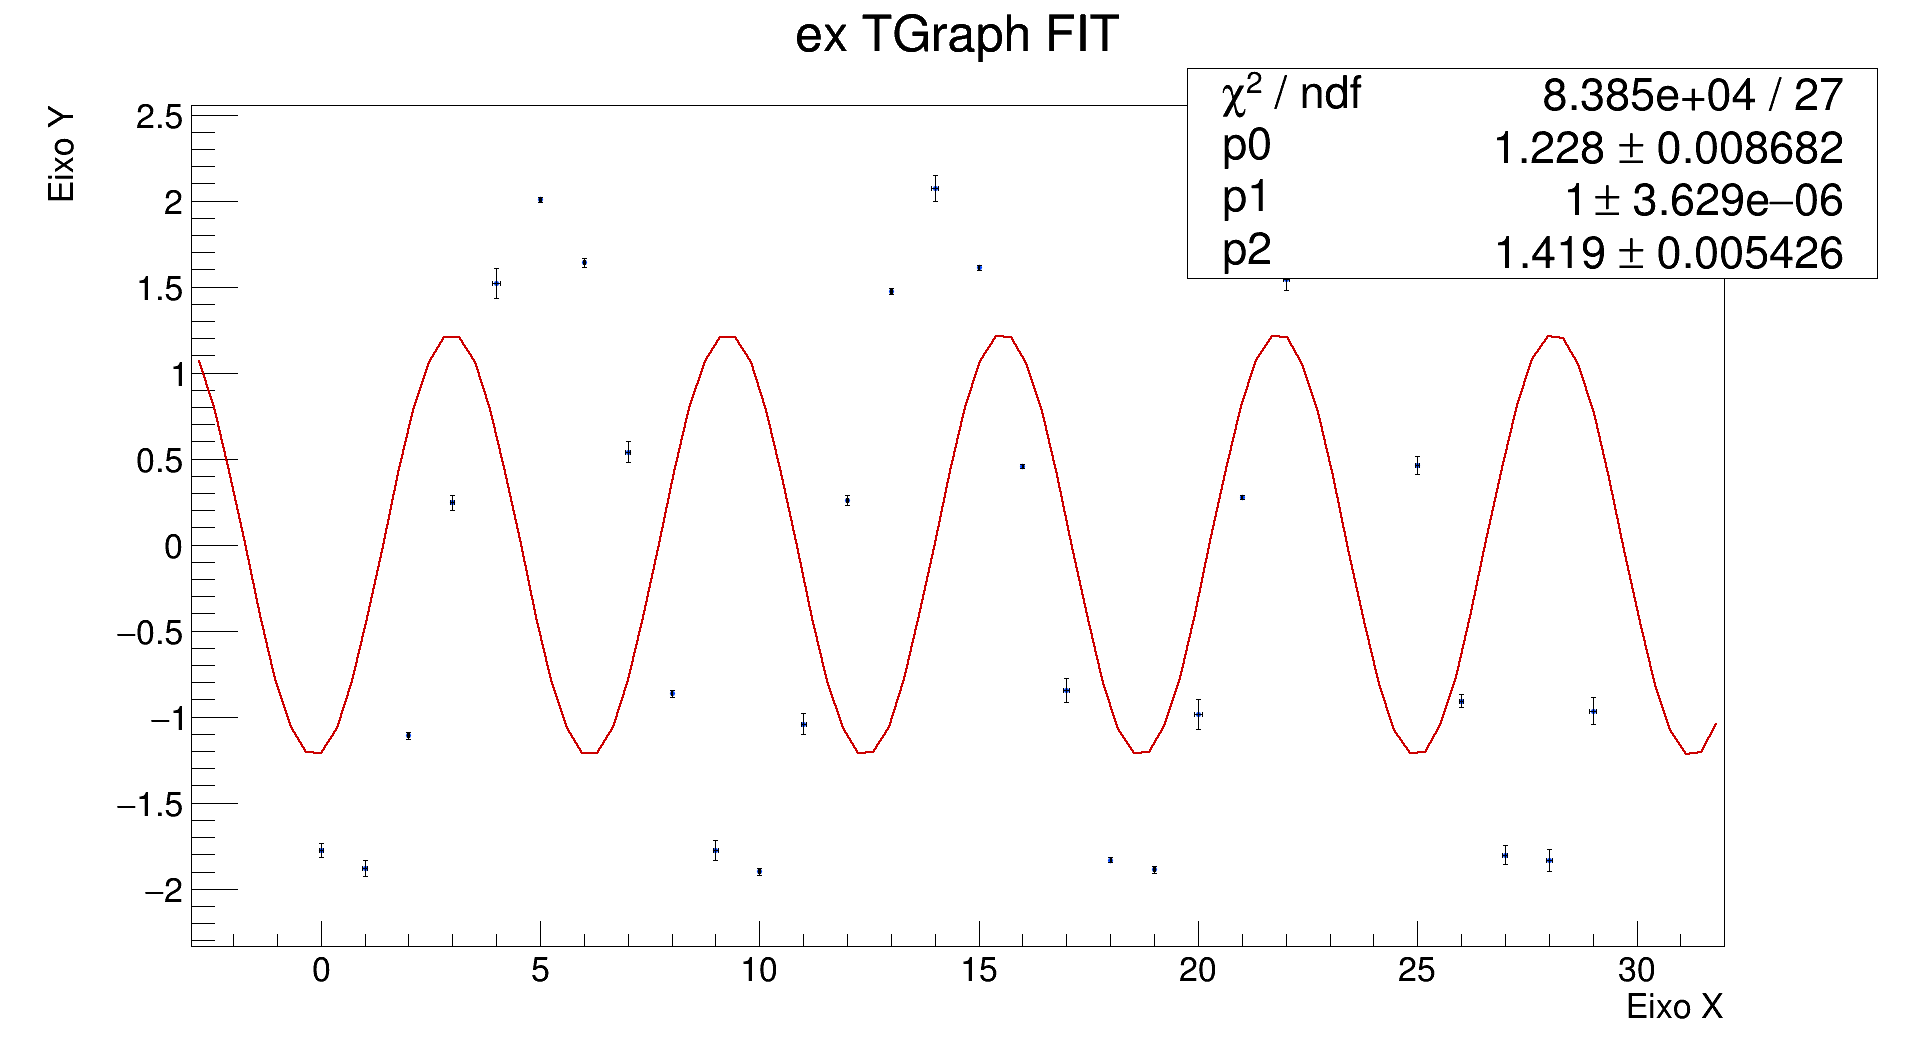
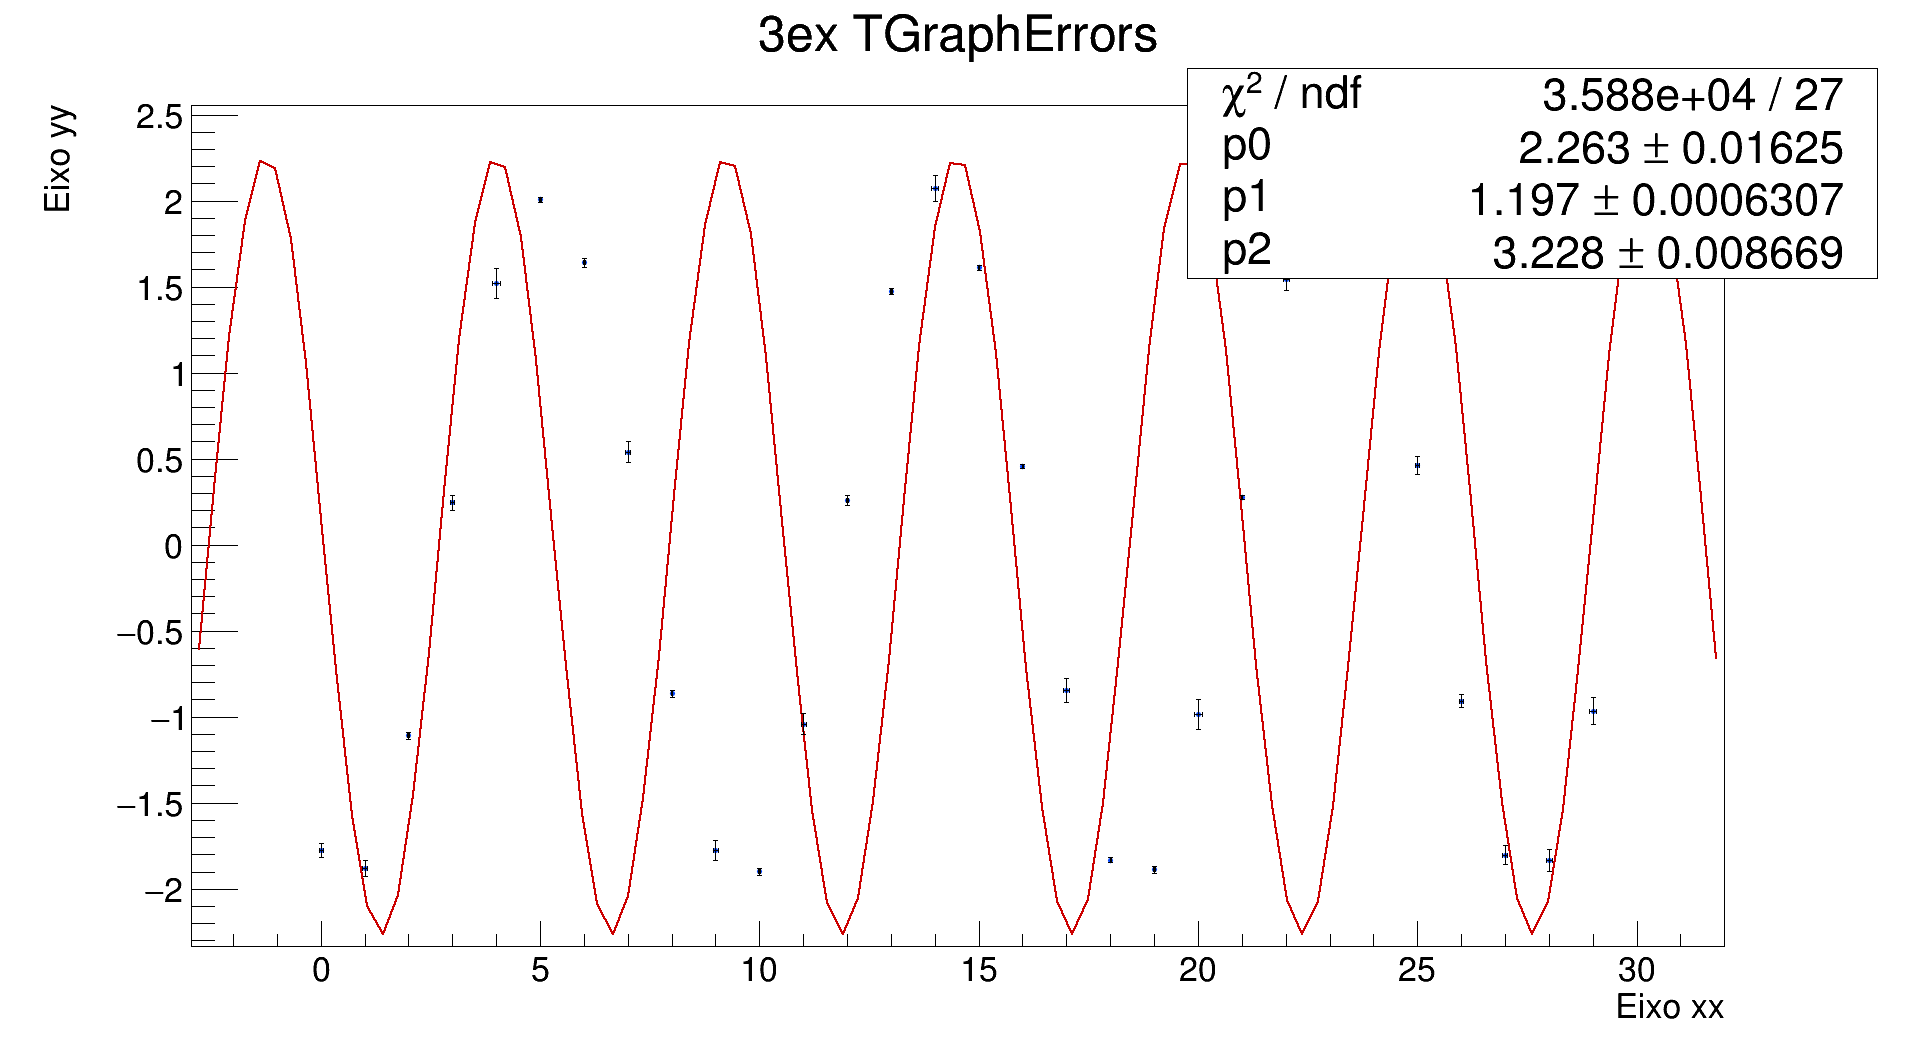
some changes made during the workshop

diff --git a/canvas.C b/canvas.C
@@ -1,0 +1,214 @@
+#ifdef __CLING__
+#pragma cling optimize(0)
+#endif
+void canvas()
+{
+//=========Macro generated from canvas: canvas/grafico
+//=========  (Thu Jan 12 19:04:25 2023) by ROOT version 6.26/06
+   TCanvas *canvas = new TCanvas("canvas", "grafico",74,71,1671,1009);
+   canvas->SetHighLightColor(2);
+   canvas->Range(-1.949319,-2.946417,15.96003,3.169388);
+   canvas->SetFillColor(0);
+   canvas->SetBorderMode(0);
+   canvas->SetBorderSize(2);
+   canvas->SetFrameBorderMode(0);
+   canvas->SetFrameBorderMode(0);
+   
+   Double_t Graph0_fx1001[30] = {
+   0,
+   1,
+   2,
+   3,
+   4,
+   5,
+   6,
+   7,
+   8,
+   9,
+   10,
+   11,
+   12,
+   13,
+   14,
+   15,
+   16,
+   17,
+   18,
+   19,
+   20,
+   21,
+   22,
+   23,
+   24,
+   25,
+   26,
+   27,
+   28,
+   29};
+   Double_t Graph0_fy1001[30] = {
+   -1.776695,
+   -1.879816,
+   -1.107985,
+   0.2455668,
+   1.520412,
+   2.00789,
+   1.643093,
+   0.5394987,
+   -0.8645409,
+   -1.774632,
+   -1.898449,
+   -1.040871,
+   0.2594984,
+   1.474038,
+   2.073587,
+   1.612574,
+   0.4559798,
+   -0.8461718,
+   -1.830651,
+   -1.888239,
+   -0.9848458,
+   0.2765641,
+   1.546052,
+   2.050019,
+   1.639404,
+   0.463435,
+   -0.907044,
+   -1.801248,
+   -1.833389,
+   -0.9656172};
+   Double_t Graph0_fex1001[30] = {
+   0.0419,
+   0.0473,
+   0.0213,
+   0.0459,
+   0.0857,
+   0.0129,
+   0.0261,
+   0.061,
+   0.0205,
+   0.0577,
+   0.0194,
+   0.0605,
+   0.0264,
+   0.0161,
+   0.0765,
+   0.0156,
+   0.0102,
+   0.0689,
+   0.0149,
+   0.0198,
+   0.0883,
+   0.0101,
+   0.0653,
+   0.0514,
+   0.0629,
+   0.0505,
+   0.0378,
+   0.057,
+   0.0643,
+   0.079};
+   Double_t Graph0_fey1001[30] = {
+   0.0419,
+   0.0473,
+   0.0213,
+   0.0459,
+   0.0857,
+   0.0129,
+   0.0261,
+   0.061,
+   0.0205,
+   0.0577,
+   0.0194,
+   0.0605,
+   0.0264,
+   0.0161,
+   0.0765,
+   0.0156,
+   0.0102,
+   0.0689,
+   0.0149,
+   0.0198,
+   0.0883,
+   0.0101,
+   0.0653,
+   0.0514,
+   0.0629,
+   0.0505,
+   0.0378,
+   0.057,
+   0.0643,
+   0.079};
+   TGraphErrors *gre = new TGraphErrors(30,Graph0_fx1001,Graph0_fy1001,Graph0_fex1001,Graph0_fey1001);
+   gre->SetName("Graph0");
+   gre->SetTitle("3ex TGRAPH FIT PANEL");
+   gre->SetFillStyle(1000);
+   gre->SetMarkerColor(9);
+   gre->SetMarkerStyle(3);
+   gre->SetMarkerSize(1.8);
+   
+   TH1F *Graph_Graph01001 = new TH1F("Graph_Graph01001","3ex TGRAPH FIT PANEL",100,-2.95399,31.99109);
+   Graph_Graph01001->SetMinimum(-2.334837);
+   Graph_Graph01001->SetMaximum(2.557807);
+   Graph_Graph01001->SetDirectory(0);
+   Graph_Graph01001->SetStats(0);
+
+   Int_t ci;      // for color index setting
+   TColor *color; // for color definition with alpha
+   ci = TColor::GetColor("#000099");
+   Graph_Graph01001->SetLineColor(ci);
+   Graph_Graph01001->GetXaxis()->SetTitle("Eixo xx");
+   Graph_Graph01001->GetXaxis()->SetRange(9,49);
+   Graph_Graph01001->GetXaxis()->SetLabelFont(42);
+   Graph_Graph01001->GetXaxis()->SetTitleOffset(1);
+   Graph_Graph01001->GetXaxis()->SetTitleFont(42);
+   Graph_Graph01001->GetYaxis()->SetTitle("Eixo yy");
+   Graph_Graph01001->GetYaxis()->SetLabelFont(42);
+   Graph_Graph01001->GetYaxis()->SetTitleFont(42);
+   Graph_Graph01001->GetZaxis()->SetLabelFont(42);
+   Graph_Graph01001->GetZaxis()->SetTitleOffset(1);
+   Graph_Graph01001->GetZaxis()->SetTitleFont(42);
+   gre->SetHistogram(Graph_Graph01001);
+   
+   
+   TF1 *PrevFitTMP1002 = new TF1("PrevFitTMP","[0]*sin([1]*x-[2])",-2.95399,31.99109, TF1::EAddToList::kNo);
+   PrevFitTMP1002->SetFillColor(19);
+   PrevFitTMP1002->SetFillStyle(0);
+   PrevFitTMP1002->SetLineColor(6);
+   PrevFitTMP1002->SetChisquare(17.64745);
+   PrevFitTMP1002->SetNDF(27);
+   PrevFitTMP1002->GetXaxis()->SetLabelFont(42);
+   PrevFitTMP1002->GetXaxis()->SetTitleOffset(1);
+   PrevFitTMP1002->GetXaxis()->SetTitleFont(42);
+   PrevFitTMP1002->GetYaxis()->SetLabelFont(42);
+   PrevFitTMP1002->GetYaxis()->SetTitleFont(42);
+   PrevFitTMP1002->SetParameter(0,-1.999019);
+   PrevFitTMP1002->SetParError(0,0.007259527);
+   PrevFitTMP1002->SetParLimits(0,0,0);
+   PrevFitTMP1002->SetParameter(1,0.6998205);
+   PrevFitTMP1002->SetParError(1,0.0007566615);
+   PrevFitTMP1002->SetParLimits(1,0,0);
+   PrevFitTMP1002->SetParameter(2,-1.144408);
+   PrevFitTMP1002->SetParError(2,0.01249815);
+   PrevFitTMP1002->SetParLimits(2,0,0);
+   PrevFitTMP1002->SetParent(gre);
+   gre->GetListOfFunctions()->Add(PrevFitTMP1002);
+   gre->Draw("ap");
+   
+   TPaveText *pt = new TPaveText(0.3268092,0.94,0.6673081,0.995,"blNDC");
+   pt->SetName("title");
+   pt->SetBorderSize(0);
+   pt->SetFillColor(0);
+   pt->SetFillStyle(0);
+   pt->SetTextFont(42);
+   TText *pt_LaTex = pt->AddText("3ex TGRAPH FIT PANEL");
+   TLine *pt_Line = pt->AddLine(0,0.297185,0,0.297185);
+   pt_LaTex = pt->AddText("text");
+   pt->Draw();
+   TLatex *   tex = new TLatex(7.255773,1.675548,"#gamma ");
+   tex->SetLineWidth(2);
+   tex->Draw();
+   canvas->Modified();
+   canvas->cd();
+   canvas->SetSelected(canvas);
+   canvas->ToggleToolBar();
+}

diff --git a/main/ex_MultiFit.cpp b/main/ex_MultiFit.cpp
@@ -8,28 +8,6 @@
 #include "TApplication.h"
 #include "TGraphErrors.h"
 
-std::vector<double_t *> data_to_vectors(std::vector<std::vector<float>> data)
-{
-    std::vector<double_t *> data_return;
-    int n = data.size();
-    double_t x[n];
-    double_t y[n];
-    double_t ex[n];
-    double_t ey[n];
-
-    for (int i = 0; i < n; i++)
-    {
-        x[i] = data[i][0];
-        y[i] = data[i][1];
-        ex[i] = data[i][2];
-        ey[i] = data[i][3];
-    }
-    data_return.push_back(x);
-    data_return.push_back(y);
-    data_return.push_back(ex);
-    data_return.push_back(ey);
-    return data_return;
-}
 
 int main()
 {
@@ -107,21 +85,23 @@ int main()
     TF1 *f1 = new TF1("f1", "gaus(0)", -20, 20);
     f1->SetParameters(150, 0.1, 1);
     f1->SetLineColor(kRed);
+    
     TF1 *f2 = new TF1("f2", "gaus(0)", -40, 0);
     f2->SetParameters(140, -20, 5);
     f2->SetLineColor(kBlue);
     f2->SetParLimits(0, 130, 150);
+    
     TF1 *f3 = new TF1("f3", "gaus(0)", 0, 40);
     f3->SetParameters(150, 20, 1);
     f3->SetLineColor(kGreen);
-
-    gr1->Fit(f1);
+    
+    gr1->Fit(f1, "R");
     gr2->Fit(f2);
     gr3->Fit(f3);
 
     gr1->Draw("AP");
     gr2->Draw("same P");
-    gr3->Draw("same P");
+    gr3->Draw("same P r");
     c.Update();
     c.SaveAs("MultiFit.png");
     return 0;

diff --git a/main/3dfit.cpp b/main/3dfit.cpp
@@ -7,7 +7,6 @@
 #include "TRootCanvas.h"
 #include "TApplication.h"
 
-
 int main()
 {
     ReadData D("tomografiainchL.txt");
@@ -30,21 +29,16 @@ int main()
     TCanvas *c = new TCanvas("canvas", "grafico", 200, 10, 1920, 1080);
 
     TGraph2D *gr = new TGraph2D(data.size(), x, y, z);
-    
+
     TF2 *f = new TF2("func", "xygaus(0) + xygaus(5)", -2.5, 2, -2.5, 2);
     f->SetParameters(20, 1, 0.4, -0.8, 0.4, 10, 0.1, 0.3, 0.6, 0.2);
     f->SetTitle("Plot & Fit 3D;Eixo X;Eixo Y; Eixo Z");
 
-
     gr->Fit(f);
     gr->SetMarkerStyle(20);
- 
- 
 
     c->Update();
 
-    
-    
     f->Draw("surf1");
     gr->Draw("same P0");
     c->SaveAs("tomografia.png");

diff --git a/main/1ex_TGraph.cpp b/main/1ex_TGraph.cpp
@@ -24,14 +24,15 @@ int main()
     
     // Criar o objeto 
     TGraph *gr = new TGraph(nstep, x, y);
-    
+    //TGraph gr(nstep, x, y);
+
     // Colocar as informações sobre o FIT
     gStyle->SetOptFit(kTRUE);
 
     // Definir titulo e labels dos eixos
     gr->SetTitle("1ex TGraph");
     gr->GetXaxis()->SetTitle("Eixo X");
-    gr->GetYaxis()->SetTitle("podemos escrever em LaTeX: #gamma #sum");
+    gr->GetYaxis()->SetTitle("podemos escrever em LaTeX: #gamma #sum #hat{o}"); 
 
     // Definições Estéticas!
     gr->SetMarkerColor(kRed);

diff --git a/main/4ex_TGErrors_fit.cpp b/main/4ex_TGErrors_fit.cpp
@@ -52,11 +52,11 @@ int main()
     gr->SetMarkerSize(1.2);
     gr->SetMarkerStyle(8);
 
-    TF1 *f = new TF1("function_to_fit", "gaus(0)", x[0], x[data.size()]);
+    TF1 *f = new TF1("function_to_fit", "gaus(0)", -10, 10);
     f->SetLineColor(kRed + 1);
     f->SetLineWidth(2);
 
-    gr->Fit(f);
+    gr->Fit(f, "R");
 
     c.Update();
     gr->Draw("AP");

diff --git a/main/ex_TwoTGraphs.cpp b/main/ex_TwoTGraphs.cpp
@@ -23,6 +23,8 @@ int main()
         y2[i] = exp(0.5 * i);
     }
 
+    //std::vector<double> vec;
+
     TGraph *gr1 = new TGraph(n, x1, y1);
     TGraph *gr2 = new TGraph(n, x2, y2);
 
@@ -43,7 +45,7 @@ int main()
     
     c.Update();
     gr1->Draw("APC");
-    gr2->Draw("PC");
+    gr2->Draw("same PC");
     c.SaveAs("TwoGraphs.png");
     return 0;
 }
